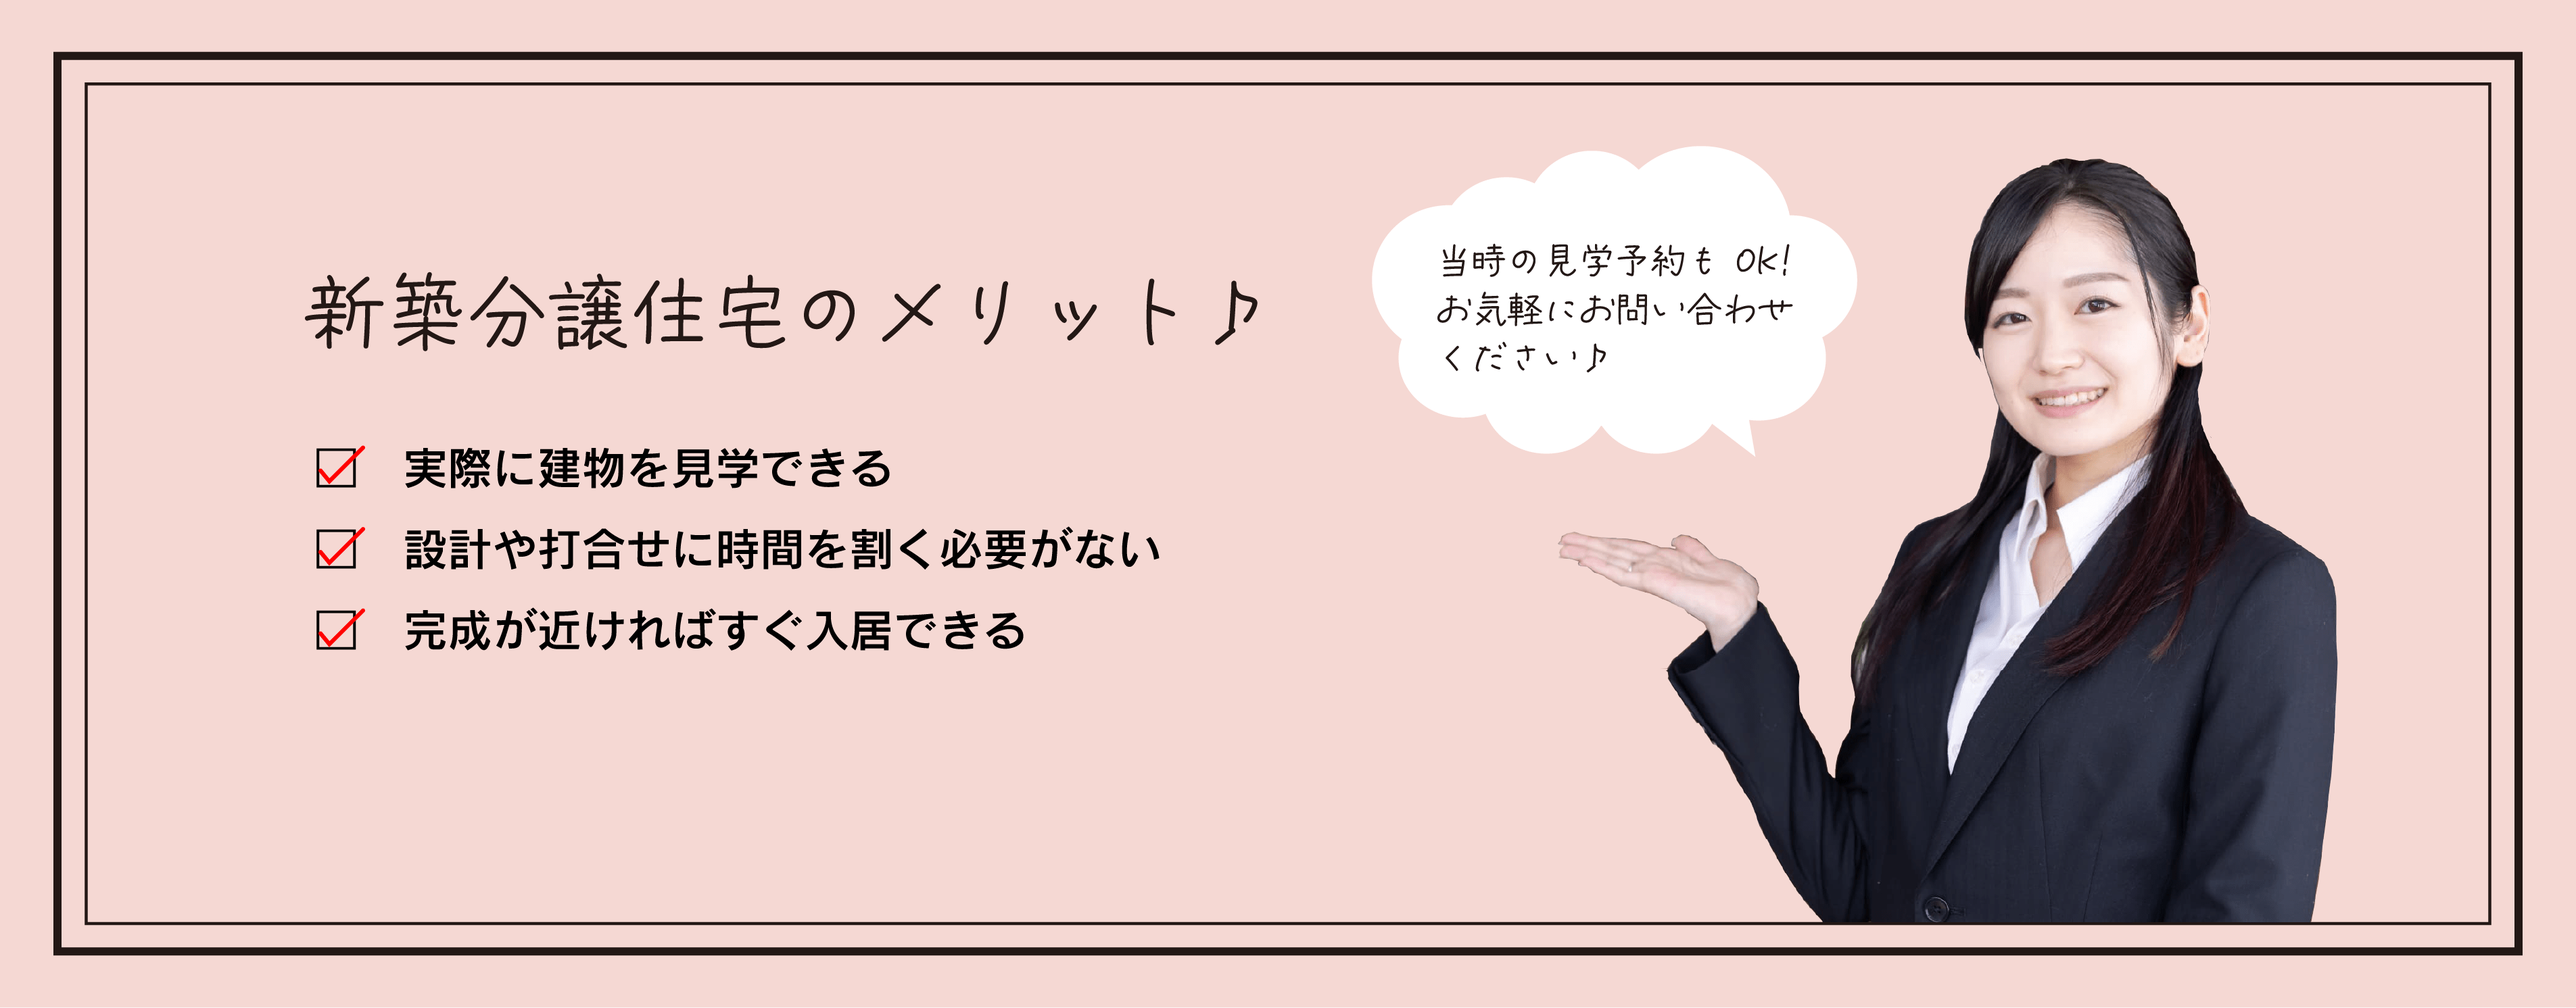
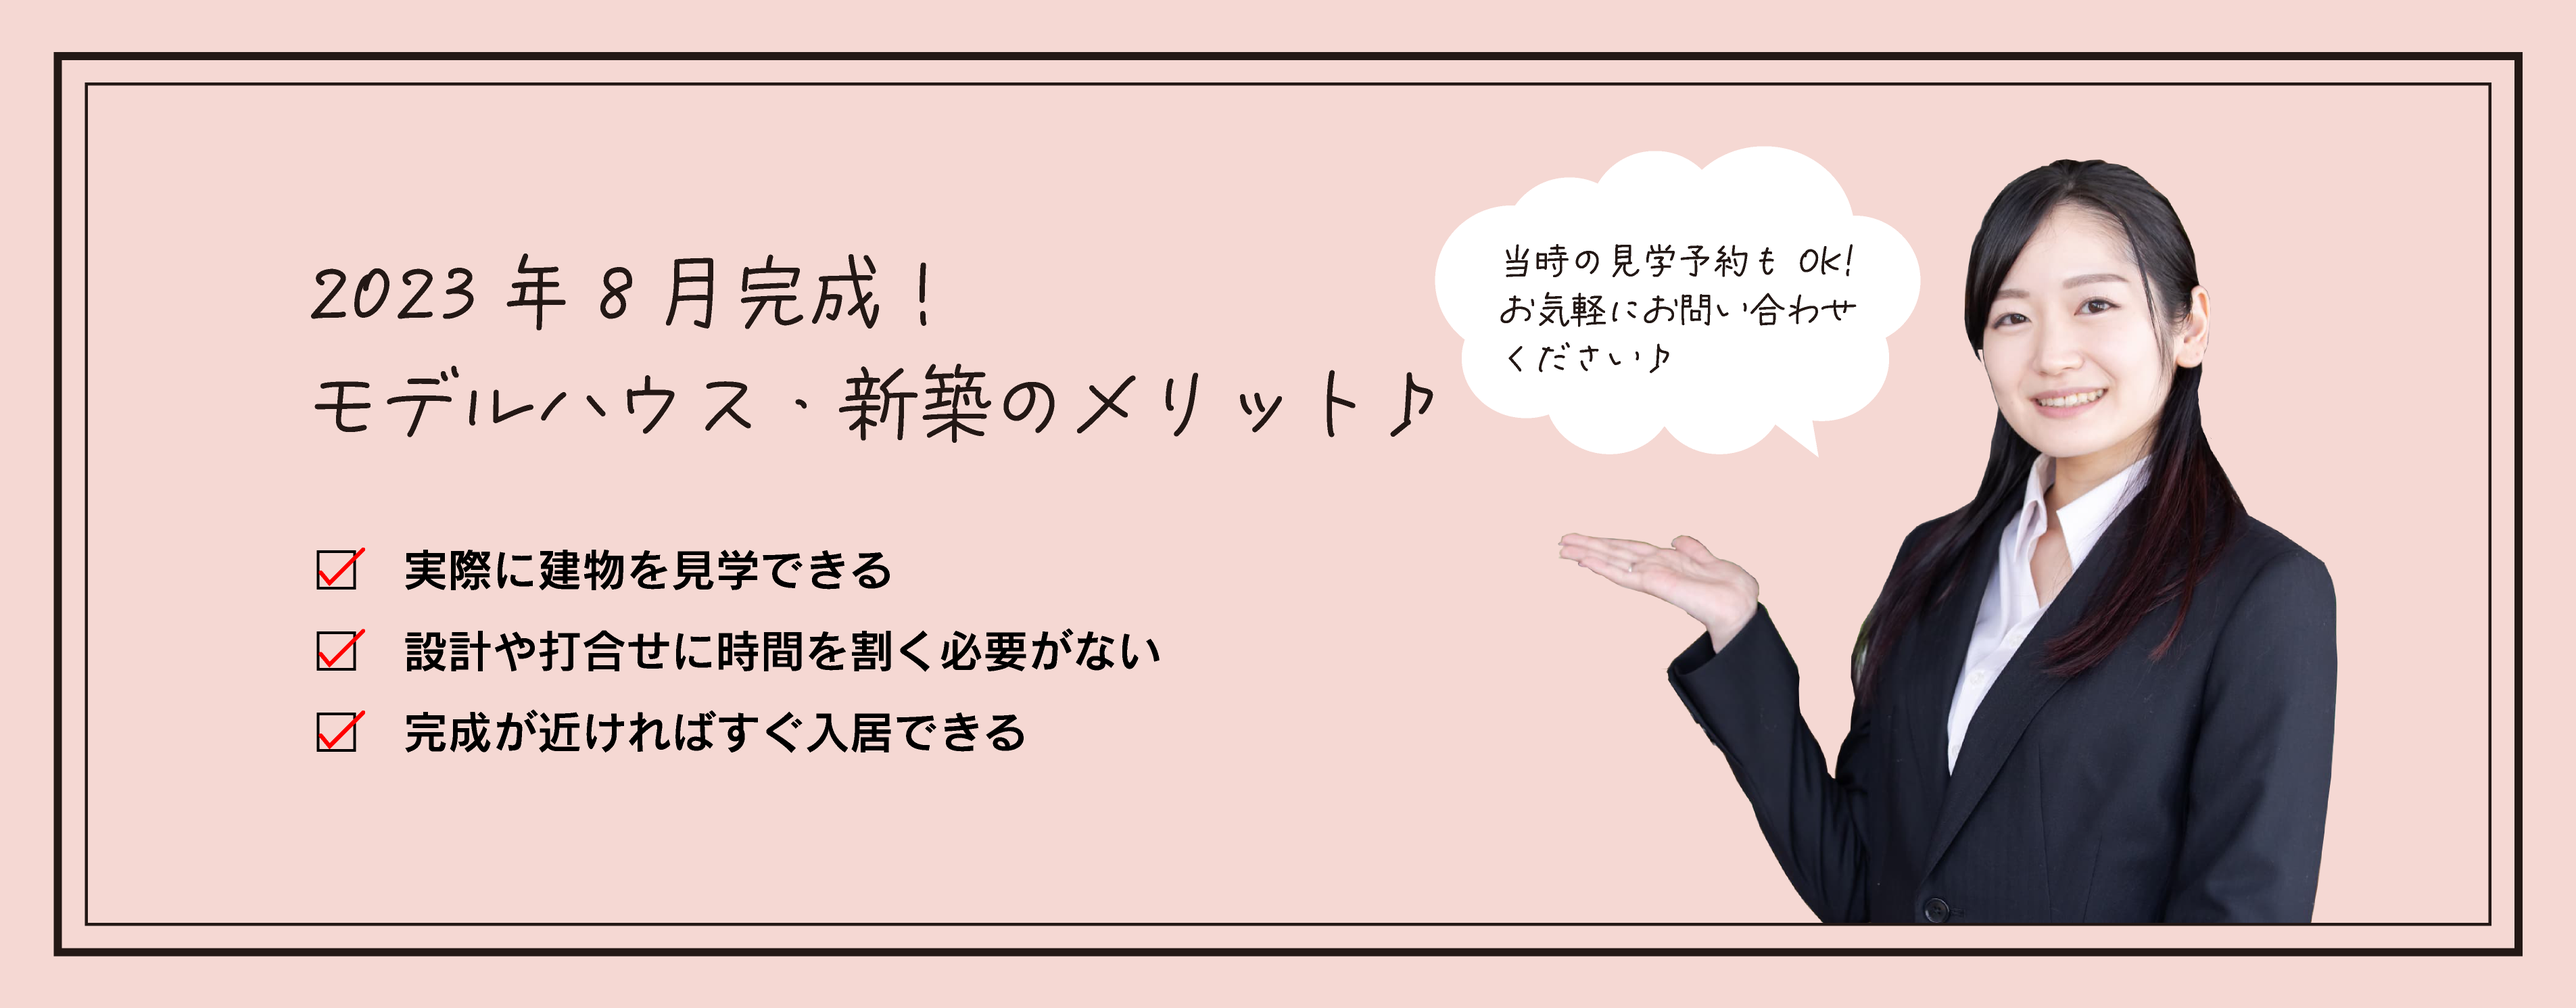
修正変更
・PC＆SP > バナー変更
・SP > f-view下部追加

diff --git a/build.html b/build.html
@@ -159,6 +159,11 @@
                     <img class="sp w93-s" src="images/bg/build-f-view_s.png" alt="新築戸建について">
                 </div>
             </div>
+            <div class="sp l-contents -img-bg l-mgb_10">
+                <div class="imgBox">
+                    <img class="sp" src="images/bg/build-f-view02_s.png" alt="新築分譲住宅のメリット">
+                </div>
+            </div>
 
             <!-- 新築分譲住宅のメリット♪ -->
             <div class="l-contents -img-bg l-mgb_10">
